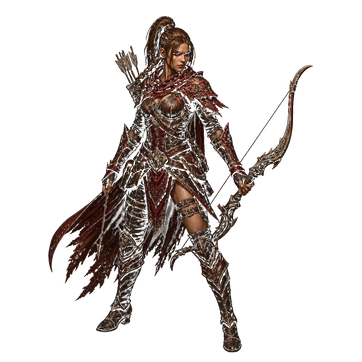
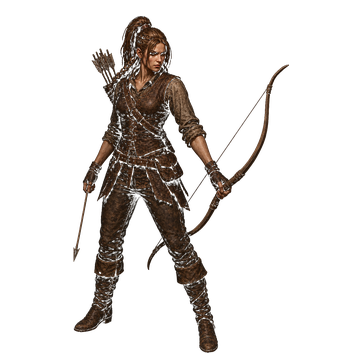
feat: 궁수 기본 외형을 승인된 스타터 가죽 튜닉 시트로 교체 (작업 159)
후드 망토 차림(작업 157)을 승인 시안 male/female_starter.png 기반 걷기·활 사격 4프레임으로 다시 만들어 6장을 재생성했다. /assets/* immutable 캐시라 궁수 시트 URL 6경로에 ?v=2를 붙이고, 캐시 버스터 누락을 잡는 테스트를 추가했다. heroBodyPx·전투·Save/DB/API 계약 무변경.

Changed region(s): [[0.1215, 0.0304, 0.8508, 0.9724], [0.7597, 0.1823, 0.7901, 0.2127], [0.6685, 0.3039, 0.6989, 0.3343]]

diff --git a/src/game/render.ts b/src/game/render.ts
@@ -21,8 +21,9 @@ import type { Gender } from './store';
 const paths = {
   floor: '/assets/wasteland-ground.png', terrainProps: '/assets/wasteland-props.png', male: '/assets/warrior_male_base.png',
   pilotMale: '/assets/pilot-25d/warrior_male_idle_v1.png', pilotFemale: '/assets/pilot-25d/warrior_female_idle_v1.png',
-  // 궁수 기본 시트(작업 157) — 같은 362px 셀 좌표계다. 갑옷·투구·활 오버레이는 이번 단계에 없다.
-  archerMale: '/assets/pilot-25d/archer_male_idle_v1.png', archerFemale: '/assets/pilot-25d/archer_female_idle_v1.png',
+  // 궁수 기본 시트(작업 157 → 159 스타터 가죽 튜닉) — 같은 362px 셀 좌표계다. 갑옷·투구·활 오버레이는 이번 단계에 없다.
+  // `/assets/*`는 immutable 캐시라 시트를 갈면 URL을 바꿔야 브라우저가 즉시 새 그림을 받는다(작업 159).
+  archerMale: '/assets/pilot-25d/archer_male_idle_v1.png?v=2', archerFemale: '/assets/pilot-25d/archer_female_idle_v1.png?v=2',
   // 투구 착용 시에만 쓰는 머리 없는 본체(작업 152) — 같은 셀 좌표계라 배율·앵커를 공유한다.
   pilotMaleHeadless: headlessBodyPaths.male.idle, pilotFemaleHeadless: headlessBodyPaths.female.idle,
   female: '/assets/warrior_female_base.png', armored: '/assets/warrior_armored_swordless.png',
@@ -53,8 +54,8 @@ const animationPaths = {
 const attackSheets = {
   pilotMaleAttack: '/assets/pilot-25d/warrior_male_attack_v1.png',
   pilotFemaleAttack: '/assets/pilot-25d/warrior_female_attack_v1.png',
-  archerMaleAttack: '/assets/pilot-25d/archer_male_attack_v1.png',
-  archerFemaleAttack: '/assets/pilot-25d/archer_female_attack_v1.png',
+  archerMaleAttack: '/assets/pilot-25d/archer_male_attack_v1.png?v=2',
+  archerFemaleAttack: '/assets/pilot-25d/archer_female_attack_v1.png?v=2',
   pilotMaleAttackHeadless: headlessBodyPaths.male.attack,
   pilotFemaleAttackHeadless: headlessBodyPaths.female.attack,
   femaleArmoredNoHelmAttack: '/assets/warrior_female_armored_attack.png?v=3',
@@ -67,8 +68,8 @@ const attackSheets = {
 const walkSheets = {
   pilotMaleWalk: '/assets/pilot-25d/warrior_male_walk_v1.png',
   pilotFemaleWalk: '/assets/pilot-25d/warrior_female_walk_v1.png',
-  archerMaleWalk: '/assets/pilot-25d/archer_male_walk_v1.png',
-  archerFemaleWalk: '/assets/pilot-25d/archer_female_walk_v1.png',
+  archerMaleWalk: '/assets/pilot-25d/archer_male_walk_v1.png?v=2',
+  archerFemaleWalk: '/assets/pilot-25d/archer_female_walk_v1.png?v=2',
   pilotMaleWalkHeadless: headlessBodyPaths.male.walk,
   pilotFemaleWalkHeadless: headlessBodyPaths.female.walk,
   maleBaseWalk: '/assets/walk8_male_base.png', femaleBaseWalk: '/assets/walk8_female_base.png',

diff --git a/src/ui/modals/charactersModal.ts b/src/ui/modals/charactersModal.ts
@@ -32,7 +32,7 @@ export function renderCharacters(ui: Interface, dialog: HTMLElement): void {
     });
     card.className = `character-slot${slot === ui.session.characterSlot ? ' selected' : ''}`;
     const image = document.createElement('img'); image.alt = '';
-    image.src = character ? (character.job === 'archer' ? `/assets/pilot-25d/archer_${character.gender === 'female' ? 'female' : 'male'}_idle_v1.png` : `/assets/warrior_${character.gender === 'female' ? 'female' : 'male'}_base.png`) : '';
+    image.src = character ? (character.job === 'archer' ? `/assets/pilot-25d/archer_${character.gender === 'female' ? 'female' : 'male'}_idle_v1.png?v=2` : `/assets/warrior_${character.gender === 'female' ? 'female' : 'male'}_base.png`) : '';
     const details = document.createElement('span'); details.textContent = character ? `${character.name} · ${character.job === 'archer' ? '궁수' : '전사'} · Lv.${character.level} · ${character.floor}층` : `슬롯 ${slot} · 새 캐릭터 만들기`;
     if (character) card.append(image);
     else { const plus = document.createElement('strong'); plus.textContent = '+'; card.append(plus); }

diff --git a/src/ui/equipmentPortrait.ts b/src/ui/equipmentPortrait.ts
@@ -16,7 +16,8 @@ import { WEAPON_GUARD, weaponIndexFor, weaponPartPath, weaponPose, swordlessBody
 /** 전사 시안은 장착 조합에 맞춘 필드와 같은 전신 그림을 쓴다(작업 155: 갑옷 티어별 시트). */
 export function equipmentFallbackPortrait(save: Save): string {
   // 궁수는 이번 단계에서 기본 시트만 쓴다 — 갑옷·투구·활 외형은 추후 별도 시안(작업 157).
-  if (isArcher(save)) return `/assets/pilot-25d/archer_${save.gender}_idle_v1.png`;
+  // 작업 159: 시트를 갈면서 `/assets/*` immutable 캐시를 피하려고 URL에 `?v=2`를 붙인다(필드 render.ts와 같은 경로).
+  if (isArcher(save)) return `/assets/pilot-25d/archer_${save.gender}_idle_v1.png?v=2`;
   // 투구를 쓰면 필드와 같은 머리 없는 본체 위에 투구 파츠를 얹는다(작업 152).
   const headless = !!save.equipment.helmet;
   const armor = armorIndexFor(save);

diff --git a/scripts/preview-archer-field.py b/scripts/preview-archer-field.py
@@ -7,7 +7,7 @@
     - 스켈레톤 = 화면 높이 × .095 (drawEntities)
     - 화살은 `render/vfx.ts` drawArrow 와 같은 진행도 보간
 
-출력: `downloads/djrpg_archer_ingame_v1.png`
+출력: `downloads/djrpg_archer_starter_ingame_v2.png` (작업 159 스타터 가죽 튜닉 시트)
 """
 from pathlib import Path
 
@@ -15,9 +15,11 @@ from PIL import Image, ImageDraw, ImageFont
 
 ROOT = Path(__file__).resolve().parent.parent
 ASSETS = ROOT / 'public/assets'
-OUTPUT = Path('/workspace/downloads/djrpg_archer_ingame_v1.png')
+OUTPUT = Path('/workspace/downloads/djrpg_archer_starter_ingame_v2.png')
 SCREEN = (390, 844)
 BODY_FRACTION = .0935
+# 게임과 같은 시트별 본체 높이(`render/heroScale.ts` `heroBodyPx`)로 배율을 잡는다.
+BODY_PX = {('male', 'walk'): 300, ('male', 'attack'): 268, ('female', 'walk'): 300, ('female', 'attack'): 270}
 
 
 def load(path: Path) -> Image.Image:
@@ -64,12 +66,13 @@ def draw_hp(draw: ImageDraw.ImageDraw, x: float, y: float, width: int, ratio: fl
     draw.rectangle([x - width / 2, y, x - width / 2 + width * max(0, ratio), y + 3], fill=(213, 59, 58, 255))
 
 
-def scene(shooting: bool, arrow_progress: float, name: str) -> Image.Image:
+def scene(shooting: bool, arrow_progress: float, name: str, gender: str = 'male') -> Image.Image:
     background = load(ASSETS / 'wasteland-ground.png')
     canvas = field(background)
     draw = ImageDraw.Draw(canvas, 'RGBA')
     height = SCREEN[1]
-    scale = height * BODY_FRACTION / 337
+    motion = 'attack' if shooting else 'walk'
+    scale = height * BODY_FRACTION / BODY_PX[(gender, motion)]
 
     # 적 두 마리 — 궁수 앞쪽에 몰려 온다.
     skeleton = load(ASSETS / 'skeleton_warrior.png')
@@ -80,9 +83,9 @@ def scene(shooting: bool, arrow_progress: float, name: str) -> Image.Image:
         draw.ellipse([px - 19, py - 7, px + 19, py + 7], fill=(0, 0, 0, 110))
         draw_hp(draw, px, py - height * .095 - 7, 26, ratio, False)
 
-    idle = load(ASSETS / 'pilot-25d/archer_male_idle_v1.png')
-    walk = load(ASSETS / 'pilot-25d/archer_male_walk_v1.png')
-    attack = load(ASSETS / 'pilot-25d/archer_male_attack_v1.png')
+    idle = load(ASSETS / f'pilot-25d/archer_{gender}_idle_v1.png')
+    walk = load(ASSETS / f'pilot-25d/archer_{gender}_walk_v1.png')
+    attack = load(ASSETS / f'pilot-25d/archer_{gender}_attack_v1.png')
     hero = attack if shooting else walk
     hero_frame = frame(hero, 1) if shooting else frame(walk, 0)
     hx, hy = project(0, 0)
@@ -153,12 +156,13 @@ def font(size: int):
 
 if __name__ == '__main__':
     panels = [
-        scene(False, 0, '1. BASE SHEET ONLY: NO ARMOR / HELMET / BOW OVERLAY'),
-        scene(True, .42, '2. BASIC ATTACK: ARROW IN FLIGHT'),
-        scene(True, .92, '3. ARROW RAIN MARKER + ARROW IMPACT'),
+        scene(False, 0, '1. MALE STARTER LEATHER TUNIC: WALK', 'male'),
+        scene(True, .92, '2. MALE : BOW SHOT', 'male'),
+        scene(False, 0, '3. FEMALE STARTER LEATHER TUNIC: WALK', 'female'),
+        scene(True, .92, '4. FEMALE : BOW SHOT', 'female'),
     ]
     gap = 14
-    result = Image.new('RGBA', (SCREEN[0] * 3 + gap * 4, SCREEN[1] + gap * 2), (18, 15, 17, 255))
+    result = Image.new('RGBA', (SCREEN[0] * 4 + gap * 5, SCREEN[1] + gap * 2), (18, 15, 17, 255))
     for index, panel in enumerate(panels):
         result.alpha_composite(panel, (gap + index * (SCREEN[0] + gap), gap))
     result.convert('RGB').save(OUTPUT, quality=92)

diff --git a/scripts/build-archer-sheets.py b/scripts/build-archer-sheets.py
@@ -2,9 +2,12 @@
 """궁수 기본 시트 6장을 승인된 원본 그림에서 만든다.
 
 입력(워크스페이스 `downloads/archer_preview/`):
-    male_1.png / female_1.png            서기 1장
-    male_walk.png / female_walk.png      걷기 4프레임 가로 스트립
-    male_attack.png / female_attack.png  활 사격 4프레임 가로 스트립
+    male_starter.png / female_starter.png            서기 1장 (승인된 스타터 가죽 튜닉 시안)
+    male_starter_walk.png / female_starter_walk.png      걷기 4프레임 가로 스트립
+    male_starter_attack.png / female_starter_attack.png  활 사격 4프레임 가로 스트립
+
+[작업 159] 스타터 가죽 튜닉 시트 — 승인 원본에서 `images --edit`로 만든 걷기·공격 스트립을 쓴다.
+(작업 157의 옛 입력 `{}_1.png`·`{}_walk.png`·`{}_attack.png`는 후드 망토 차림이라 쓰지 않는다.)
 
 출력(`public/assets/pilot-25d/`):
     archer_{male,female}_{idle,walk,attack}_v1.png
@@ -30,9 +33,9 @@ OUTPUT = ROOT / 'public/assets/pilot-25d'
 CELL = 362
 CENTER_X = 181
 SPEC = {
-    'idle': {'file': '{}_1.png', 'cells': 1, 'height': 337, 'foot': 353},
-    'walk': {'file': '{}_walk.png', 'cells': 4, 'height': 300, 'foot': 329},
-    'attack': {'file': '{}_attack.png', 'cells': 4, 'height': 270, 'foot': 348},
+    'idle': {'file': '{}_starter.png', 'cells': 1, 'height': 337, 'foot': 353},
+    'walk': {'file': '{}_starter_walk.png', 'cells': 4, 'height': 300, 'foot': 329},
+    'attack': {'file': '{}_starter_attack.png', 'cells': 4, 'height': 270, 'foot': 348},
 }
 # 검정 배경 키잉: 이 값 아래는 투명, 위로 갈수록 불투명(가장자리 계단 완화).
 ALPHA_LOW, ALPHA_HIGH = 5, 26

diff --git a/docs/TASK.md b/docs/TASK.md
@@ -10,6 +10,7 @@
 | [작업 146] Turso 공용 DB에서 DJRPG 전용 DB 이관 | songduckjin | `codex/146-turso-db-isolation` | `scripts/migrate-turso-db.mjs`, `tests/migrate-turso-db.test.mjs`, `server/{database,market-connection,world-boss,world-boss-schema}.mjs`, `tests/functions-adapter.test.mjs`, `docs/TURSO_DB_GUIDE.md`, 운영 DB·Pages 비밀 변수 | 높음 | [-] |
 | [작업 155] 남녀 갑옷 10종 서기·걷기·공격 + headless 시트 제작·적용 | songduckjin | `feat/155-armor-10-idle-walk-attack` | `render/armors.ts`(신규), `render/entities.ts` `drawHero`, `render.ts`(티어별 동적 로드·캐시), `ui/equipmentPortrait.ts`, `scripts/verify-item-art.mjs`, `tests/armor-render.test.mjs`(신규), `public/assets/pilot-25d/armors/**` | 보통 | [x] |
 | [작업 158] 궁수 직업 추가 — 기본 시트·활 10종·원거리 전투·스킬 8+3 | songduckjin | `feat/158-archer-job` | `game/skills.ts`(`Job`·궁수 스킬/패시브), `game/items.ts`(`bowBases`·`rollItem(job)`), `game/store.ts`(`job`), `game/world.ts`(원거리 사격·화살), `game/render/{entities,vfx}.ts`·`render.ts`(궁수 시트·화살 VFX), `ui/{login,skillArtwork,equipmentPortrait,hud}.ts`·`ui/modals/{charactersModal,skillModal,accountModal}.ts`, `server/endpoints/account.mjs`, `public/assets/pilot-25d/archer_*`·`item-art/bow_*`·`icons/archer-*` | 보통 | [x] |
+| [작업 159] 궁수 스타터 가죽 튜닉 시트 교체·재배포 | songduckjin | `feat/159-archer-starter-leather-sheets` | `public/assets/pilot-25d/archer_{male,female}_{idle,walk,attack}_v1.png`(교체), `scripts/build-archer-sheets.py`(스타터 입력), `scripts/preview-archer-field.py`(남녀 4패널), `src/game/render.ts`·`src/ui/equipmentPortrait.ts`·`src/ui/modals/charactersModal.ts`(`?v=2`), `tests/archer.test.mjs` | 낮음 | [x] |
 | [작업 156] 대검 10종 외형 전체 적용(남녀 서기·걷기·공격) | songduckjin | `feat/156-weapon-10-parts` | `render/weapons.ts`(신규), `render/entities.ts` `syncWeaponPart`·`drawHero`, `render.ts`(파츠·noweapon 동적 로드·티어 캐시), `render/armors.ts`(`swordless`), `ui/equipmentPortrait.ts`, `scripts/build-weapon-parts.py`(신규), `scripts/verify-item-art.mjs`, `tests/weapon-render.test.mjs`(신규), `public/assets/pilot-25d/weapons/**`·`noweapon/**` | 보통 | [x] |
 | [작업 157] 스킬 1·2 이펙트 교체(은빛 검기·황금 충격파 / 푸른 청룡 느린 선회) | songduckjin | `feat/157-skill-1-2-vfx` | `render/vfx.ts`(`slash2` 스프라이트 2장·`drawDragon` 회전·지면광), `render.ts`(Art `fxSlash2`·`fxSlash2Ground` 등록·`?v=2`), `public/assets/fx_slash2.png`·`fx_slash2_ground.png`(신규)·`fx_dragon_head.png`·`fx_dragon_body.png`(교체), `tests/hero-weapon-render.test.mjs`, `docs/QUICK_PATCH.md`·`CODE_MAP.md` | 보통 | [x] |
 | 184 던전 드롭·클리어 흡수 연출 | fks3997 | preview/gravel-background-fks3997 | `ui/dungeonBattle.ts`(드롭 50%·필드 확률)·`ui/dungeonField.ts`(DOM 낙하/흡수)·`styles/dungeon.css`·`tests/dungeon-battle.test.mjs` | 낮음 | [x] |
@@ -20,6 +21,7 @@
 | 190 드롭 회전 제거·작은 포물선 낙하(메인 사냥·던전) | fks3997 | preview/gravel-background-fks3997 | `game/render/drops.ts`(낙하·흡수 `rotation`/`spin` 제거, `TOSS_*` 작은 호·1회 탭)·`ui/dungeonField.ts`(낙하·흡수·정지 `rotate()` 제거, `LOOT_TOSS_*`)·`tests/field-loot.test.mjs`·`tests/dungeon-battle.test.mjs`(회전 없음·호 높이·탭 1회) | 낮음 | [x] |
 | 189 메인 사냥 화면 드롭·1.5초 흡수 연출 | fks3997 | preview/gravel-background-fks3997 | `game/world.ts`(드롭 대기/흡수·금화 드롭), `game/loot.ts`(신규 착지 규칙), `game/render/drops.ts`(신규 드롭 렌더), `game/render.ts`·`vfx.ts`(레이어·연결), `render/heroScale` 소비, `tests/field-loot.test.mjs`(신규)·`tests/world-movement.test.mjs`·`tests/bag-capacity.test.mjs` | 낮음 | [x] |
 
+> 2026-11-20: `[작업 159]` — 궁수 기본 외형을 후드 망토 차림(작업 157)에서 사용자가 승인한 **스타터 가죽 튜닉**으로 바꿨다. 승인 원본 `downloads/archer_preview/{male,female}_starter.png`(민소매 가죽 조끼 + 크림색 셔츠, 후드·견갑·망토 없음)에서 `images --edit`로 걷기·활 사격 4프레임 가로 스트립을 만들고(같은 얼굴·같은 옷·같은 바닥선) `scripts/build-archer-sheets.py` 입력을 스타터 파일로 바꿔 6장을 재생성했다(서기 `362×362`, 걷기·공격 `1448×362` 4셀, 검정 배경 키잉·발끝 정렬, 셀 높이 남 337 / 301·299·300·300 / 239·275·270·270, 여 337 / 300×4 / 239·277·279·263). `/assets/*`가 `immutable` 1년 캐시라 `render.ts`(6경로)·`equipmentPortrait.ts`·`charactersModal.ts`의 궁수 시트 URL에 `?v=2`를 붙였고, 그 규칙을 지키는 테스트 1건(캐시 버스터 누락 감시)을 `tests/archer.test.mjs`에 넣었다. 시트만 교체했고 `heroBodyPx`·전투 수치·Save/DB/API 계약은 무변경이다. 검증: `tsc --noEmit`, `tests/archer.test.mjs` **14/14**, 전체 488건 중 **486 통과**(`costume-field-render` 2건은 `origin/main` `86ac44e` 워크트리에서도 동일하게 실패하는 기존 실패), `verify-item-art` 6장 확인, `npm run build`, 배포 번들에 6경로 `?v=2` 확인. 검수 이미지 `downloads/djrpg_archer_starter_ingame_v2.png`(남녀 걷기·사격 4패널).
 > 2026-11-20: `[작업 158]` — 두 번째 직업 **궁수(`archer`)**를 전사 기준으로 추가하고 PR 머지·운영 배포까지 완료했다. ① **세이브 호환**: `Save.job`(기본 `'warrior'`)을 추가해 직업이 없는 기존 세이브·DB 레코드가 그대로 전사로 읽히고, 계정·캐릭터 생성(로그인·`새 캐릭터` 모달)에서 **직업(위 줄) → 성별(아래 줄)** 순으로 고른다. 서버 `initialSave`·`characters`·`reset`이 `job`을 보존한다. ② **에셋**: 승인 원본(`downloads/archer_preview/*`)에서 전사와 같은 셀 좌표계(서기 362×362, 걷기·공격 1448×362)의 `archer_{male,female}_{idle,walk,attack}_v1.png` 6장을 만들고(빌더 `scripts/build-archer-sheets.py`, 검정 배경 알파 키잉 + 망토가 닿은 프레임 분리), 활 10종 아이콘(`item-art/bow_0|5.png` 870×290)과 궁수 스킬·패시브 아이콘 시트(`icons/archer-skills.png` 4×2, `archer-passive-skills.png` 3×1)를 생성했다. ③ **전투**: 궁수는 `archerAttackRange`(250)까지 화살을 쏘고 `archerStopRange`(118) 밖에서만 다가가며, 화살은 도착 시점에 판정하고 살아 있는 적을 따라간다(`Effect.kind='shot'`). ④ **장비·스킬**: 활 10종(`사냥꾼의 활` ~ `패왕의 신궁`)은 전사 대검 드랍·코덱스·대검 파츠를 건드리지 않고 직업별 목록으로 분리했고, 액티브 8종(더블 샷 ~ 애로우 레인)·패시브 3종(궁술 숙련·신속의 발걸음·매의 눈)을 스킬북·퀵슬롯·쿨타임 구조 그대로 붙였다. ⑤ **외형 규칙**: 궁수는 이번 단계에서 **기본 시트만** 그리고 전사용 갑옷·투구·대검 파츠를 절대 얹지 않는다(능력치는 정상 적용) — 추후 궁수 전용 갑옷·후드·활 외형을 붙이기 쉽도록 `entities.ts`/`equipmentPortrait.ts` 분기를 분리했다. 검증: 타입 검사, 전체 테스트 487건 중 485 통과(`costume-field-render` 2건은 종전부터 같은 실패), 아트 검증(궁수 시트 6·활 아이콘 2·스킬 아이콘 2 추가), 빌드, `git diff --check`. 검수 이미지 `downloads/djrpg_archer_ingame_v1.png`(합성 — 실기 브라우저 확인은 미실시). [PR #120](https://github.com/songduckjin/DJRPG/pull/120) 스쿼시 병합 `7dd9d67643e2`, 운영 `version.json` `7dd9d67643e2`(`builtAt 2026-11-20T01:30:06Z`)·**새 에셋 10장 전부 HTTP 200**(원격 sha256=로컬)·배포 번들(`index-B7aBXvAW.js`)에 궁수 경로·스킬 포함 확인.
 > 2026-11-20: `[작업 157]` — 사용자가 고른 확정 시안대로 **1번 휘두르기**는 코드 선 2줄을 지우고 은빛 검기(`fx_slash2.png`)와 황금빛 지면 충격파·파편(`fx_slash2_ground.png`) 두 장의 검정 배경 add 스프라이트로 바꿨다(검기만 스윙 방향으로 회전, 지면파는 눕힌 채 전방 34%로 번짐, 등급은 폭 +8px·12% 틴트만). **2번 드래곤 트위스터**는 용 머리·비늘 몸통을 짙은 파란 청룡으로 교체하고 회전을 한 바퀴 1.1초 → **2.4초**로 늦췄으며 발밑에 파란 지면광·링을 남긴다. `/assets/*`가 immutable 캐시라 청룡 두 장은 `?v=2` 경로를 쓴다. 스킬 수치·판정·Save/DB/API 무변경. 검증: 타입 검사, `hero-weapon-render` 6/6, 전체 474건 중 472 통과(`costume-field-render` 2건은 종전 실패), 빌드·아트 검증·diff. [PR #118](https://github.com/songduckjin/DJRPG/pull/118) 스쿼시 병합 `eef4e9d5251d`, 운영 `version.json` `eef4e9d5251d`(`builtAt 2026-11-20T01:17:18Z`)·새 에셋 4장 HTTP 200(원격 sha256=로컬, 머리 픽셀 평균 RGB 35/105/189 파랑)·배포 번들에 경로와 `Math.PI*2/2.4` 확인. 검수 이미지 `downloads/djrpg_skill_1_slash2_ingame_v3.png`·`downloads/djrpg_skill_2_spin_blue_ingame_v3.png`. 브라우저 실기 미실행.
 > 2026-11-20: `[작업 156]` — 사용자가 승인한 대검 9종 시안을 **본체와 분리된 파츠**로 떠서 `baseItems.weapon` 1~9번을 남녀 서기·걷기 4프레임·공격 4프레임에 적용했다. ① 본체·갑옷 시트에는 0번 기본 두손검이 그려져 있어, **기본 검만 지운 같은 규격 시트**(`public/assets/pilot-25d/noweapon/**` 132장 5.9MB, 256색 팔레트 PNG)를 만들고 그 위에 파츠를 얹는다(검을 지운 자리에 검이 가리고 있던 다리·허리는 실루엣 닫기+인페인트로 메운다). ② 검은 **강체 파츠 9장**(`public/assets/pilot-25d/weapons/weapon_{1..9}_v1.png`, 362px 셀, 장당 ≤31KB)과 자세 표(`WEAPON_POSES` 남녀 × 9자세 = 가드 좌표·회전각)로 그린다 — 회전축이 손잡이(가드) 점이라 스윙 중에도 칼이 손에서 떨어지거나 길이가 줄지 않는다. ③ 파츠는 승인 시안(`tools/weapon-src/male_weapon_{1..9}.png`)에서 얼굴 NCC 정합 + 기준 시트와의 색차/실루엣 밖 영역으로 떠서 손은 파츠에 섞이지 않고 본체 손이 새 검을 쥔다. ④ 로딩은 부팅 프리로드 없이 **장착 티어 파츠 1장 + 본체 시트 6장**만 받고 최근 3티어를 유지한다(로딩 전에는 기본 검을 가진 기준 시트로 폴백). ⑤ 장비창 초상화도 같은 파츠·같은 시트를 쓴다. `store.ts`·`server/**`·`world.ts`·`baseItems` 순서·0번 기본 검 무변경. 검증: 타입 검사, 전체 테스트 473건 중 471 통과(`costume-field-render` 2건은 종전부터 같은 실패), 아트 검증(noweapon 132장·파츠 9장 추가), 빌드, `git diff --check`. 검수 이미지 `downloads/djrpg_weapon_10_idle_v1.png`·`downloads/djrpg_weapon_walk_attack_v1.png`·`downloads/djrpg_weapon_ingame_scale_v1.png`. [PR #115](https://github.com/songduckjin/DJRPG/pull/115) 스쿼시 병합 `88dd1b95ea7b`, 운영 `version.json` `88dd1b95ea7b`(`builtAt 2026-11-20T00:11:48Z`)·**새 에셋 141장(파츠 9 + noweapon 132) 전부 HTTP 200**·배포 번들(`index-NYhj-_cK.js`)에 파츠·noweapon 경로 확인. 모바일 실기 화면은 미확인(게스트 계정 미생성). 자세한 기록은 `docs/WORKLOG.md`.

diff --git a/docs/QUICK_PATCH.md b/docs/QUICK_PATCH.md
@@ -38,6 +38,7 @@
 | 스킬 수치 / 쿨타임 / 스킬북 드랍 | `src/game/skills.ts` `skills`·`passives` 표(`cooldown`·`power`·`range`·`level`), `skillDuration`·`skillDamageScale`·`skillUpgradeCost`, 스킬북 드랍은 `src/game/items.ts` `skillBookDropChance`·`rollSkillBook` | `loadout.ts` 3칸 규칙, `world.ts` `cooldowns` 키·`action` 차단 순서, `database.mjs` `itemValid`의 스킬 ID 목록 | `node --test tests/skill-progression.test.mjs tests/loadout.test.mjs tests/skill-feedback.test.mjs` |
 | 무기·방어구·장신구·등급 추가/수치 조정 | `src/game/items.ts` `baseItems`·`rarityScales`·`rarityTiers`·`rarityPrefixes`·`rollItem`·`totalStats`·`salvageGold/Stones`, 아트 `public/assets/item-art/{slot}_{index}.png` | 기존 `baseItems` 항목 **순서**(아트 프레임 = 인덱스), `database.mjs` `identity`·`itemValid`의 슬롯·등급 목록(아이템 소유권 계약) | `node --test tests/inventory.test.mjs tests/codex.test.mjs tests/equipped-detail.test.mjs` + `node scripts/verify-item-art.mjs` |
 | 착용 갑옷 10종 외형(서기·걷기·공격·headless, 작업 155) | `src/game/render/armors.ts`(경로·`armorIndexFor`·`armorFrameIndex`), `src/game/render/entities.ts` `drawHero`(티어 시트 선택·headless 분기), `src/game/render.ts`(`armorFrame`·`prefetchArmor`·`armorTierCacheLimit`), `src/ui/equipmentPortrait.ts`(초상화 경로·키), 에셋 `public/assets/pilot-25d/armors/**` | `store.ts`·`server/**`·`world.ts` 계약, `baseItems.armor` 순서(= 시트 인덱스), 기준 pilot 시트 6장·`headless/` 6장·투구 파츠, **시트를 362px 셀 규격 밖에서 손편집**(정합은 SIFT+실루엣 IoU로 다시 뽑는다)·부팅 프리로드에 갑옷 120장 넣기 | `node --test tests/armor-render.test.mjs tests/helmet-head-render.test.mjs tests/equipped-detail.test.mjs` + `node scripts/verify-item-art.mjs` |
+| 궁수 기본 외형 시트 교체(작업 159) | `scripts/build-archer-sheets.py`(입력 `{}_starter{,_walk,_attack}.png`), `public/assets/pilot-25d/archer_{male,female}_{idle,walk,attack}_v1.png`, `src/game/render.ts`의 `archer*` 6경로, `src/ui/equipmentPortrait.ts`, `src/ui/modals/charactersModal.ts`, `tests/archer.test.mjs` | `store.ts`·`server/**`·`world.ts`(전투·세이브 계약), 궁수 장비 오버레이 금지 규칙, **시트를 갈고 `?v=` 숫자를 안 올리기**(`/assets/*` immutable — 캐시에 옛 그림이 남는다), 허리·발끝 정렬 밖 손편집 | `node --test tests/archer.test.mjs` + `node scripts/verify-item-art.mjs` |
 | AI 시안 전사 외형 전체 교체(작업 149) | `src/game/render.ts`(pilot idle/walk/attack 에셋), `src/game/render/entities.ts`(장비 오버레이 생략), `src/game/render/heroScale.ts`, `src/ui/equipmentPortrait.ts`, `public/assets/pilot-25d/**` | 남녀 그림을 함께 갱신; field/장비창 둘 다 같은 idle 시트; 기존 장착 데이터·능력치 유지하지만 화면 장비는 고정 갑옷·대검; 파일명 `_vN` 새 버전 사용 | `node --test tests/hero-art.test.mjs tests/hero-weapon-render.test.mjs tests/equipped-detail.test.mjs` |
 | 캐릭터·몬스터 스프라이트 / 이미지 교체 (`?v=N` 포함) | `src/game/appearance.ts`(`heroAppearance`), `src/game/render.ts`(`paths`·`animationPaths`·`attackSheets`·`walkSheets`), `src/game/render/heroScale.ts`(`heroBodyPx` 실측 몸통 높이), `public/assets/*.png` | `store.ts` `Gender`·세이브 형식, 남/여 × 투구 × 갑옷 분기 삭제. **같은 경로 PNG를 바꾸면 `?v=` 숫자를 +1**( `/assets/*`는 `immutable`) | `node --test tests/appearance.test.mjs tests/hero-motion.test.mjs tests/hero-art.test.mjs tests/hero-weapon-render.test.mjs` |
 | 스킬 이펙트 그림(1번 은빛 검기·2번 푸른 청룡) | `game/render/vfx.ts`(`slash2` 스프라이트 2장·`slashTint`·`drawDragon` 회전/지면광), `game/render.ts` `paths`의 `fx*` 키, `public/assets/fx_slash2*.png`·`fx_dragon_*.png` | 코드 `effects.arc()` 선으로 되돌리기(1번은 검정 배경 add 스프라이트), 청룡 회전을 다시 1.1초/바퀴로 올리기, `skills.ts` 수치·사거리·`world.ts` 판정 변경, 지면 충격파를 스윙과 함께 회전시키기(지면은 눕힌 채 회전 0) | `node --test tests/hero-weapon-render.test.mjs` |

diff --git a/docs/TASK_songduckjin.md b/docs/TASK_songduckjin.md
@@ -7,6 +7,15 @@
 
 ## 진행 중 작업
 
+### [x] [작업 159] 궁수 스타터 가죽 튜닉 시트 교체·재배포
+- **담당자**: `songduckjin` · **브랜치**: `feat/159-archer-starter-leather-sheets` · **위험 등급**: 낮음 · **상태**: `[x]`
+- **배경**: 작업 157의 궁수 기본 시트는 후드 망토 + 견갑 차림이었다. 사용자가 승인한 스타터 시안(`downloads/archer_preview/{male,female}_starter.png`, 민소매 가죽 조끼 + 크림 셔츠, 후드·견갑·망토 없음)으로 기본 외형을 교체한다.
+- **제작**: `images --edit`로 승인 원본에서 걷기·활 사격 4프레임 가로 스트립(`{male,female}_starter_{walk,attack}.png`)을 만들고, `scripts/build-archer-sheets.py` 입력을 `{}_starter{,_walk,_attack}.png`로 바꿔 `public/assets/pilot-25d/archer_{male,female}_{idle,walk,attack}_v1.png` 6장을 재생성(서기 `362×362`, 걷기·공격 `1448×362` 4셀, 256색 PNG, 검정 배경 키잉·발끝 정렬).
+- **캐시 무효화**: `/assets/*`가 `immutable`이라 `src/game/render.ts`(6경로)·`src/ui/equipmentPortrait.ts`·`src/ui/modals/charactersModal.ts`의 궁수 시트 URL에 `?v=2`. `tests/archer.test.mjs`는 기대값을 새 URL로 고치고, 궁수 시트 참조에 버전 쿼리가 빠지면 실패하는 감시 테스트를 추가했다.
+- **불변**: `heroBodyPx`(남녀 337/300/268·270)·전투 수치·스킬·Save/DB/API 계약, 장비 오버레이 미적용 규칙(작업 157) 그대로.
+- **검증**: `tsc --noEmit`, `tests/archer.test.mjs` 14/14, 전체 488건 중 486 통과(`costume-field-render` 2건은 `origin/main` `86ac44e` 워크트리에서도 동일 실패), `verify-item-art`(궁수 시트 6장), `npm run build`, 배포 번들 6경로 `?v=2` 확인.
+- **검수 이미지**: `downloads/djrpg_archer_starter_ingame_v2.png` — `scripts/preview-archer-field.py`를 남녀 4패널(걷기·사격)로 확장하고 `heroBodyPx`로 배율을 맞춰 합성했다. 브라우저 실기 확인은 미실시(사용자 몫).
+
 ### [x] [작업 150] 평타 1마리 제한·평타 ×1.6·걷기/공격 몸 크기 보정
 - **담당자**: `songduckjin` · **브랜치**: `fix/150-basic-attack-single-target` · **위험 등급**: 중 · **상태**: `[x]` 완료(실기 확인은 사용자 몫)
 - **제보(2026-11-19 실기)**: ① 평타가 반경 90px·부채꼴 안의 모든 적을 동시에 때림 ② 대검을 휘두르거나 걸을 때 캐릭터가 작아짐. 후속 지시: 한 마리만 때리는 만큼 “한방한방이 쌔야 돼”.

diff --git a/docs/WORKLOG.md b/docs/WORKLOG.md
@@ -901,3 +901,9 @@
 - 2번: 청룡머리·비늘몸통 PNG교체(짙은파랑), 한바퀴1.1→2.4초, 발밑파란지면광·링, 몸통방사1.25배. `/assets/*`immutable이라 dragon2장은`?v=2`.
 - tsc/부분6(검기·청룡계약 새로)/전체474중472(costume-field-render2건은종전실패)/build/아트/diff통과. PR#118 스쿼시`eef4e9d5251d`, 운영version.json`eef4e9d5251d`(builtAt2026-11-20T01:17:18Z)·새에셋4장200(원격sha=로컬, 머리평균RGB 35/105/189 파랑)·번들`index-QOXkJ41J.js`에 경로·`Math.PI*2/2.4`확인. 브라우저실기미실행.
 
+## 2026-11-20 songduckjin — 작업159 궁수 스타터 가죽 튜닉 시트 교체
+- 승인 원본(`downloads/archer_preview/{male,female}_starter.png`)에서 `images --edit`로 걷기·활사격 4프레임 스트립 생성. 후드·망토·견갑 없이 민소매 가죽 조끼+크림 셔츠, 퀴버·나무활 유지, 4프레임 얼굴·옷·바닥선 동일 확인.
+- `scripts/build-archer-sheets.py` 입력을 `{}_starter{,_walk,_attack}.png`로 교체 후 6장 재생성(362×362 / 1448×362, 검정 키잉·발끝정렬). 셀 높이 남 337/301·299·300·300/239·275·270·270, 여 337/300×4/239·277·279·263. 옛 후드 입력은 주석으로만 남김.
+- `/assets/*` immutable이라 `render.ts` 6경로·`equipmentPortrait.ts`·`charactersModal.ts`의 궁수 시트 URL에 `?v=2`. `tests/archer.test.mjs`에 캐시 버스터 누락 감시 1건 추가(궁수 시트 참조 줄은 전부 `?v=` 필요).
+- 시트만 교체: `heroBodyPx`·전투 수치·Save/DB/API 무변경. 장비 오버레이는 종전대로 궁수에게 그리지 않는다.
+- tsc/archer 14·전체488중486(costume-field-render2건은 `86ac44e` 워크트리 동일실패)/아트6장/build/diff통과. 번들에 6경로 `?v=2` 확인. 검수 `downloads/djrpg_archer_starter_ingame_v2.png`(남녀 걷기·사격 4패널). 브라우저 실기 미실행.
